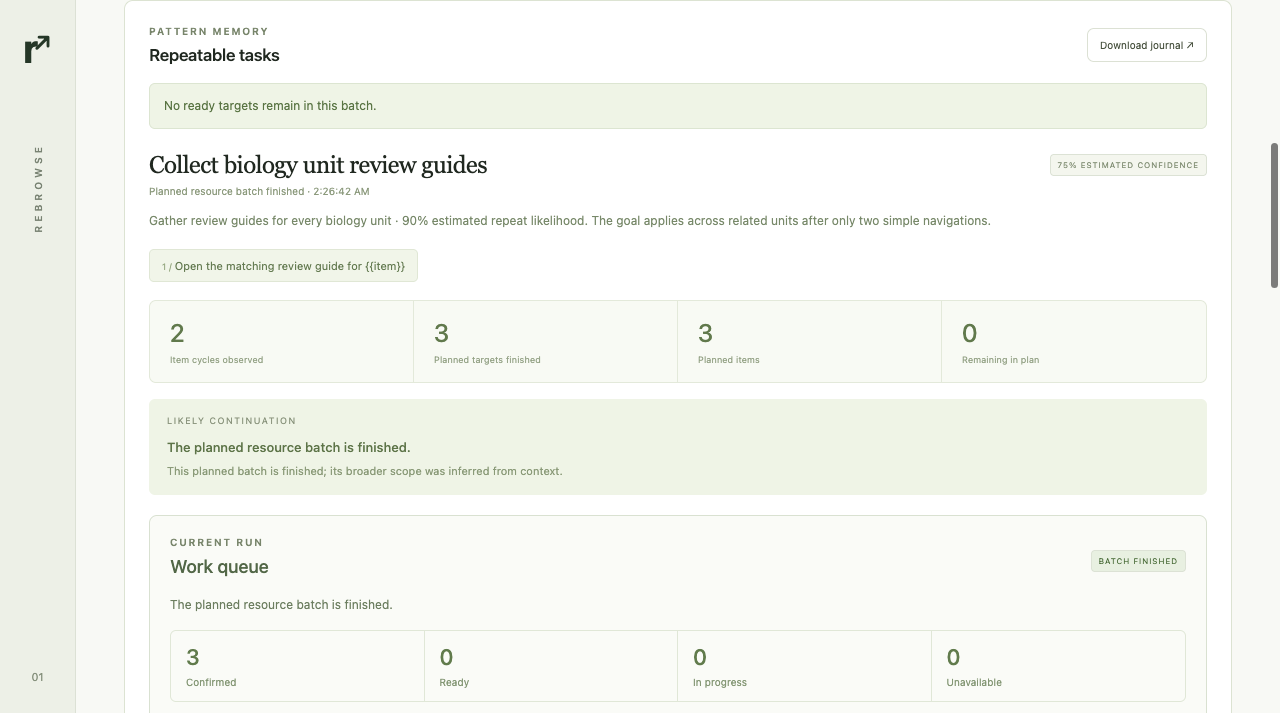
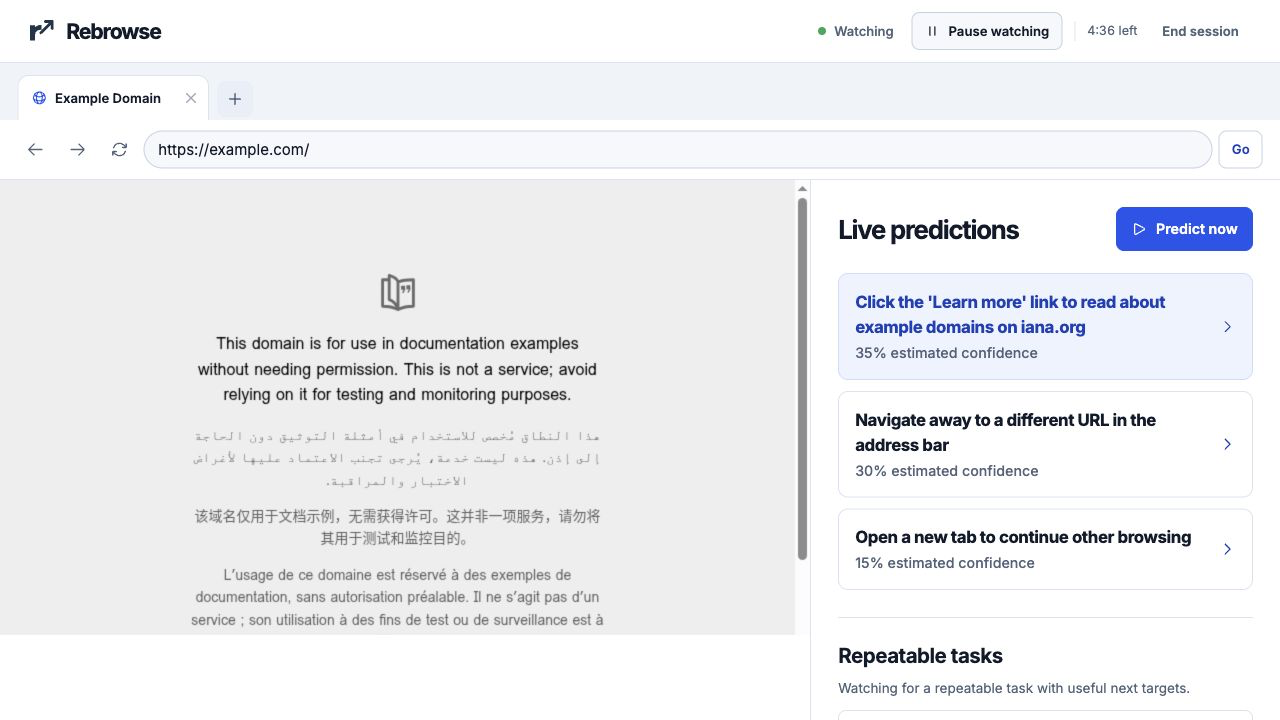
Show the redesigned live demo in the README

diff --git a/README.md b/README.md
@@ -13,7 +13,7 @@
 </p>
 
 <p align="center">
-  <img src="./docs/images/dashboard.png" width="100%" alt="Rebrowse detecting a repeatable research task and showing the completed workflow queue" />
+  <img src="./docs/images/dashboard.png" width="100%" alt="The live Rebrowse demo showing Example Domain beside its live predictions" />
 </p>
 
 Browse in a dedicated Chrome session. Rebrowse turns page activity into next-action predictions and can continue a repeatable task once it has enough evidence.
